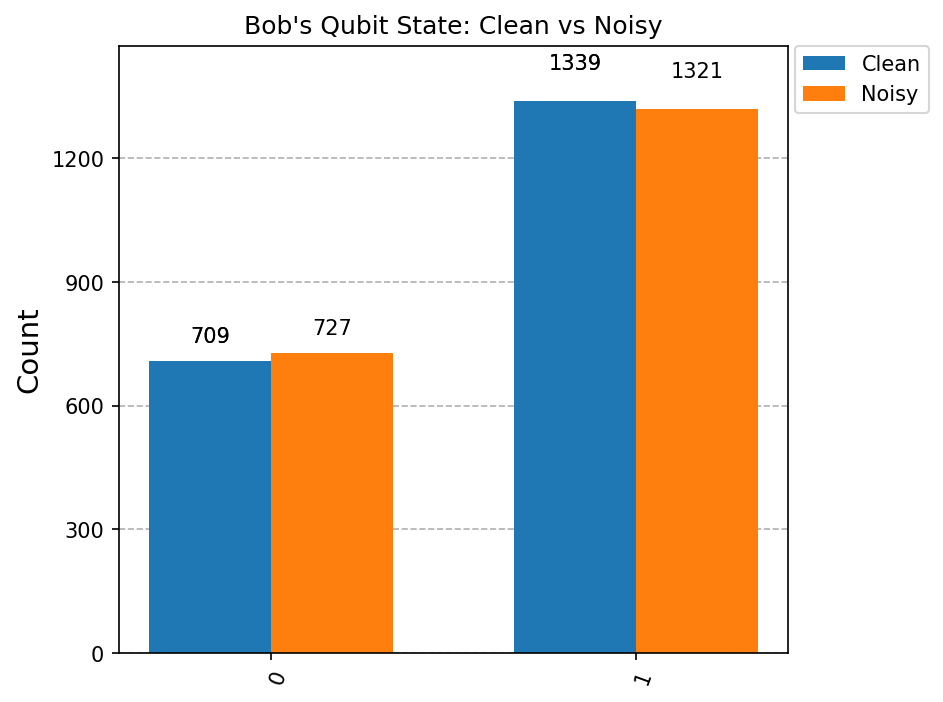
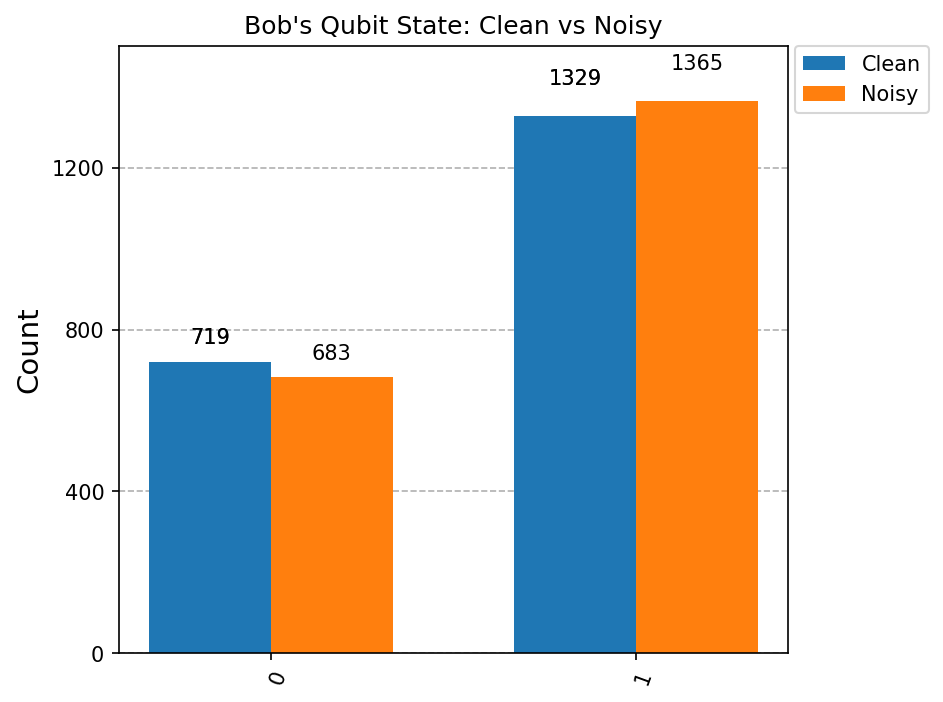
Actually updated circuit.

diff --git a/src/Part_2_Quantum_Teleportation/QuantumTeleportation.py b/src/Part_2_Quantum_Teleportation/QuantumTeleportation.py
@@ -28,7 +28,6 @@ def build_circuit():
         qc.z(bob1)
     qc.measure(bob1, c2)
     return qc
-    qc.draw("mpl").savefig("figures/teleportation_circuit.png", dpi=150, bbox_inches="tight")
 
 def bob_stats(counts):
     zero = sum(v for k, v in counts.items() if k[0] == '0')
@@ -108,5 +107,8 @@ fig = plot_histogram([clean_counts, noisy_counts], legend=['Clean', 'Noisy'],
                      title="Bob's Qubit State: Clean vs Noisy",
                      bar_labels=True)
 fig.savefig('figures/histogram.png', dpi=150, bbox_inches='tight')
+
+build_circuit().draw("mpl").savefig("figures/teleportation_circuit.png", dpi=150, bbox_inches="tight")
+plt.close('all')
 
 print("\nPlots saved to figures/")
